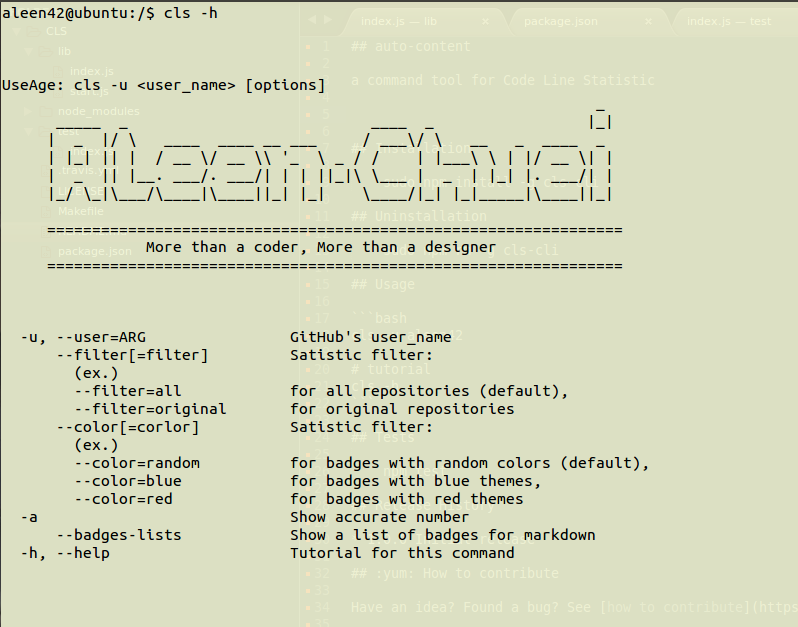
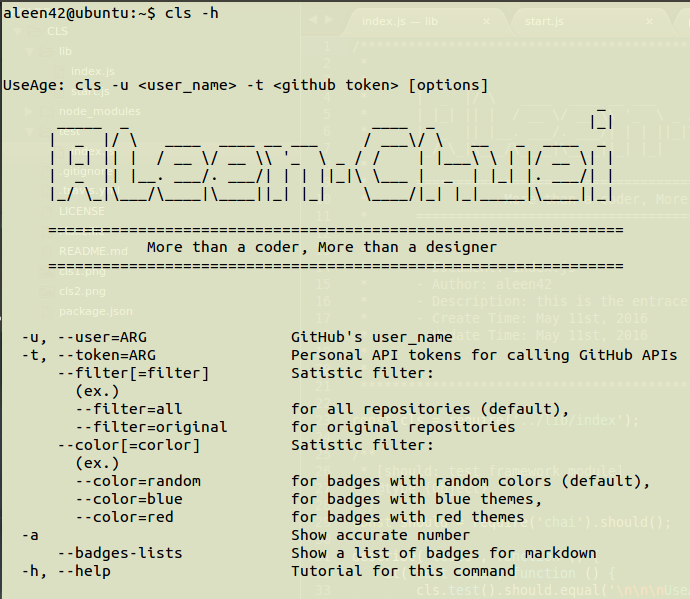
fix bugs

diff --git a/lib/index.js b/lib/index.js
@@ -141,9 +141,10 @@ module.exports = {
 	 * @param  {[type]} userName [the name of the user]
 	 * @return {[type]}          [description]
 	 */
-	listRepo: function (userName, callback, data, page) {
+	listRepo: function (userName, callback, data, page, token) {
 		const perPage = 100;
-		const requestUri = 'https://api.github.com/users/' + userName + '/repos?per_page=100&page=' + page + '&access_token=f2efb655cd27fc92d513b9b09d7286b3ee1ee1ff';
+		var token = token || '';
+		const requestUri = 'https://api.github.com/users/' + userName + '/repos?per_page=100&page=' + page + '&access_token=' + token;
 		const _this = this;
 		const charArr = ['/', '-', '\\', '-'];
 
@@ -166,6 +167,8 @@ module.exports = {
 			error = error || '';
 
 			if (error != '') {
+				console.log(body);
+
 				str = 'Get data: ' + error;
 
 				_this.stream.clearLine();
@@ -189,7 +192,7 @@ module.exports = {
 				callback(data);
 			} else {
 				data = data.concat(obj);
-				_this.listRepo(userName, callback, data, ++page);
+				_this.listRepo(userName, callback, data, ++page, token);
 			}
 		});
 	},
@@ -253,9 +256,15 @@ module.exports = {
 			return;
 		}
 
+		if (typeof(options.token) == 'undefined') {
+			console.log('[Error: miss github api token]');
+			return;
+		}
+
 		options.filter = options.filter || 'all';
 		options.color = options.color || 'random';
 		options.a = options.a || false;
+		options.token = options.token || '';
 
 		const maxFont = 20;
 
@@ -305,7 +314,7 @@ module.exports = {
 					continue;
 				}
 
-				langUri.push(data[item].languages_url + '?access_token=f2efb655cd27fc92d513b9b09d7286b3ee1ee1ff');
+				langUri.push(data[item].languages_url + '?access_token=' + options.token);
 			}
 
 			bar = new progressBar('Calculating: [:bar] :percent :etas', {
@@ -380,7 +389,7 @@ module.exports = {
 
 				console.log(table.toString());
 			}, {}, 0);
-		}, [], 1);
+		}, [], 1, options.token);
 	},
 
 	/**

diff --git a/lib/start.js b/lib/start.js
@@ -35,6 +35,7 @@ const cls = require("./index");
 const opt = require('node-getopt')
 	.create([
 		['u', 'user=ARG', '\tGitHub\'s user_name'],
+		['t', 'token=ARG', '\tPersonal API tokens for calling GitHub APIs'],
 		['', 'filter[=filter]', '\tSatistic filter: \n\t(ex.)\n\t--filter=all \t\tfor all repositories (default), \n\t--filter=original \tfor original repositories'],
 		['', 'color[=corlor]', '\tSatistic filter: \n\t(ex.)\n\t--color=random \t\tfor badges with random colors (default), \n\t--color=blue \t\tfor badges with blue themes, \n\t--color=red \t\tfor badges with red themes'],
 		['a', '', '\tShow accurate number'],
@@ -42,7 +43,7 @@ const opt = require('node-getopt')
 		['h' , 'help', '\tTutorial for this command']
 	])
 	.setHelp('\
-\n\n\nUseAge: cls -u <user_name> [options]\
+\n\n\nUseAge: cls -u <user_name> -t <github token> [options]\
 \n                                                                  _\
 \n      _____  _                           ____  _                 |_|\
 \n     |  _  |/ \\   ____  ____ __ ___     / ___\\/ \\   __   _  ____  _\

diff --git a/README.md b/README.md
@@ -16,8 +16,12 @@ a command tool for Code Line Statistic
 
 ## Usage
 
+generate your own github api token following the [site](https://github.com/blog/1509-personal-api-tokens).
+
+then run the command line tool with this token xxx you just generated:
+
 ```bash
-cls -u aleen42
+cls -u aleen42 -t xxx
 
 # tutorial
 cls -h
@@ -30,9 +34,12 @@ cls -h
 ## Release History
 
 * ==================== **1.0.0 Initial release** ====================
-	* 1.0.0 Initial release
-	* 1.0.1 Update readme
-	* 1.0.2 Update readme
+	* 1.0.0 initial release
+	* 1.0.1 update readme
+	* 1.0.2 update readme
+	* 1.0.3 unused version
+	* 1.0.4 unused version
+	* 1.0.5 fix bugs
 
 ## :yum: How to contribute
 
